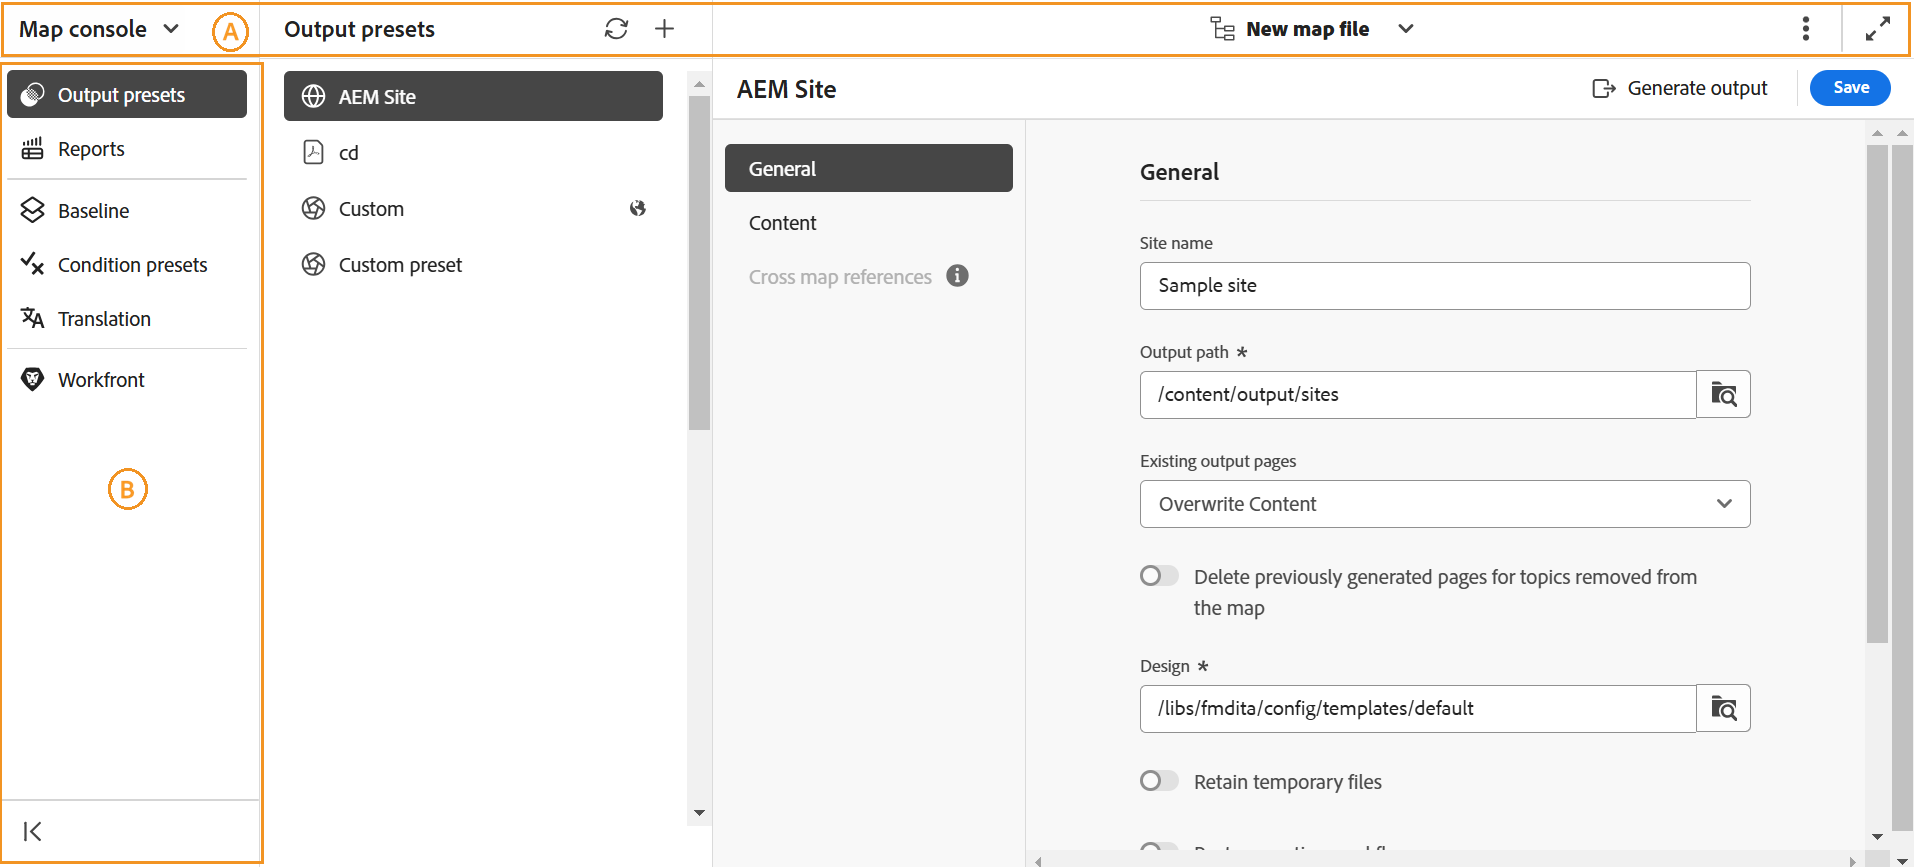
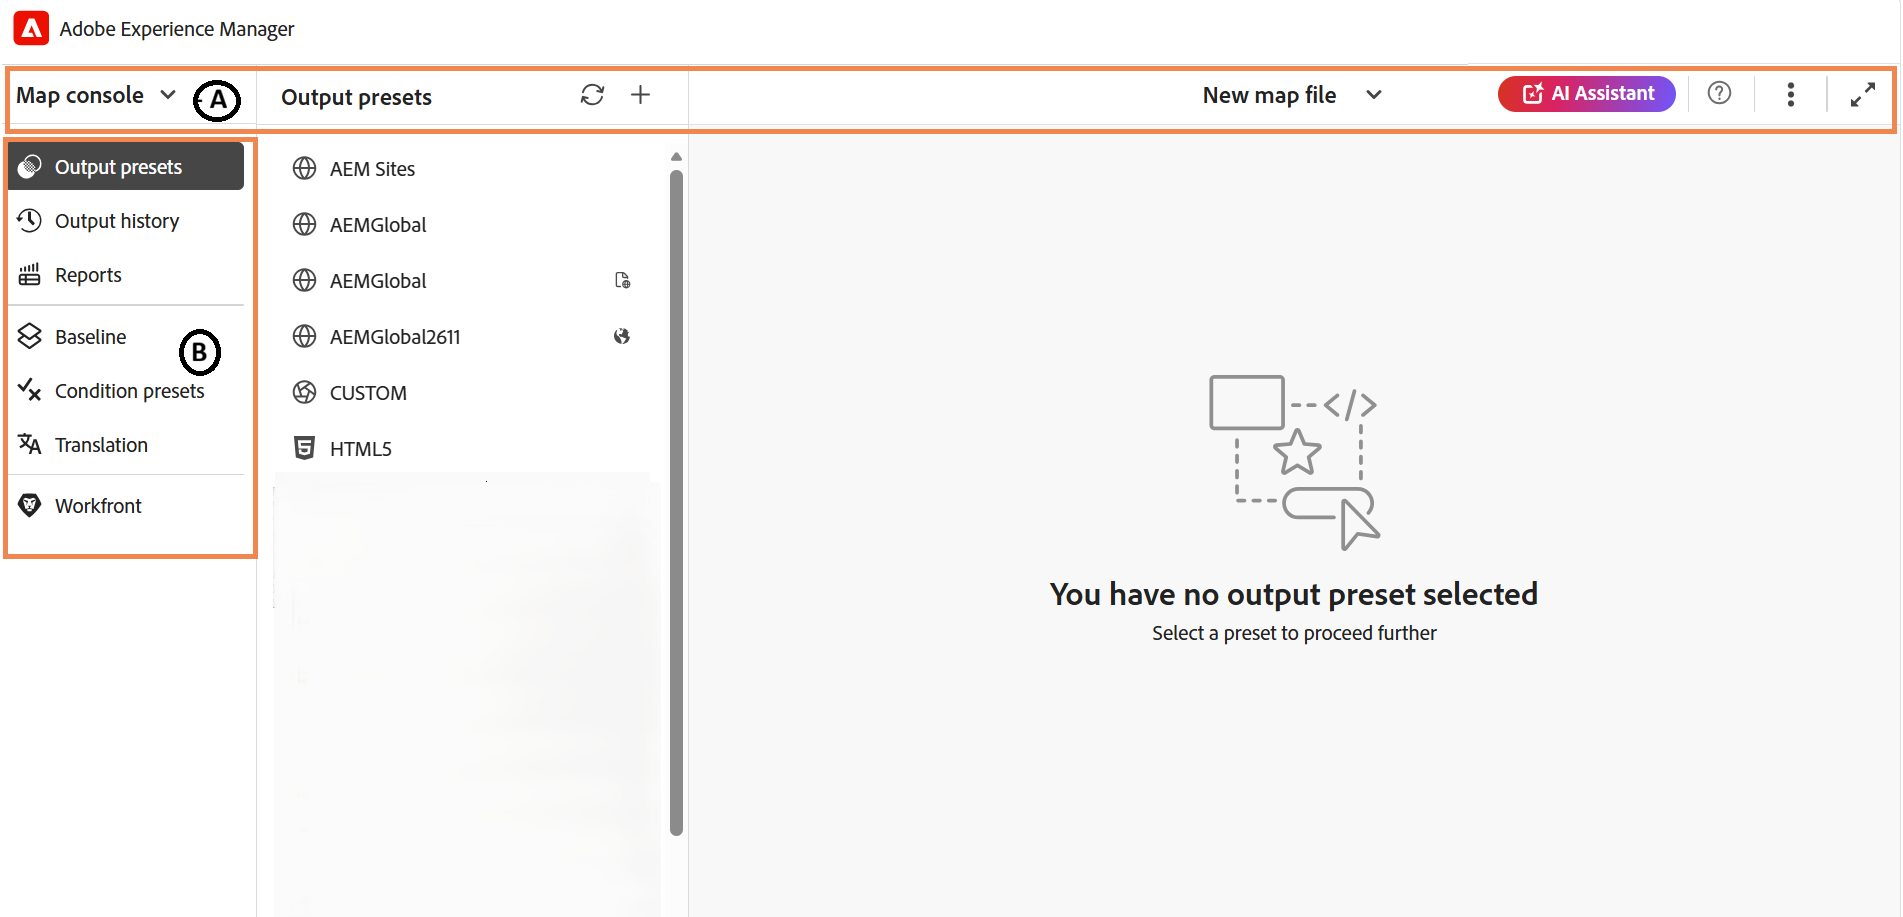
updated output history related docs

diff --git a/help/product-guide/user-guide/generate-output-manage-process.md b/help/product-guide/user-guide/generate-output-manage-process.md
@@ -29,13 +29,70 @@ topic_v2:
 ---
 # Manage output generation process
 
-Adobe Experience Manager Guides allows you to perform the following actions on the generated output:
+Adobe Experience Manager Guides allows you to monitor and manage output generation tasks for your DITA maps. You can view the status of output generation tasks, cancel ongoing tasks, and remove outdated entries from the output generation history.
+
+Once you initiate an output generation task for a map or regenerate selected topics, Experience Manager Guides sends the task to the output generation queue. The status of the task is updated as the output generation process progresses. 
+
+You can view and manage output generation tasks using the **Output history** tab in the Editor or the **OUTPUTS** tab in the Assets UI.
+
+
+## View and manage output generation tasks from the Editor
+
+>[!NOTE]
+>
+> The **Output history** feature in the Editor is available starting with the 2026.11.0 release of Experience Manager Guides as Cloud Service. This feature is disabled by default. To enable it, contact the Adobe Customer Success team.
+
+You can view and manage output generation tasks directly from the **Output history** tab in the Map console.
+
+Open the DITA map in the Map console and generate the output using any of the output presets available in Experience Manager Guides. Switch to the **Output history** tab to view the status of the output generation task and other details, as shown below:
+
+![](images/output-history-editor-view.png)
+
+For each output generation task, you can view the following information:
+
+1. **Preset:** Name of the output preset used to generate the output.
+1. **Preset type:** Output preset type used for output generation.
+1. **Status:** Current status of the output generation task, such as Waiting, Executing, Finished, Failed, Post-publishing, or Cancelled.
+1. **Generated on:** Date and time when the output was generated.
+1. **Duration:** Time taken to generate the output.
+1. **Generated by:** Name of the user who initiated the output generation task.
+
+>[!NOTE]
+>
+> If an output generation task is currently in progress, the **Executing** label in the **Status** column indicates that the task is being processed. Use the **Refresh** to view the latest status of the output generation tasks.
+
+You can also cancel an ongoing output generation task. To cancel an ongoing task, hover over the task row and select **Cancel generation**. 
+
+![](images/cancel-generation-editor.png)
+
+Once the task is cancelled, the **Cancelled** label is displayed in the **Status** column.
+
+For completed output generation tasks, hover over the task row to access the following actions, depending on the task status:
+
+![](images/output-history-editor-actions.png)
+
+- **Open output:** View the generated ouput in a new tab. 
+- **View logs:** Access the output generation logs to review the publishing details and troubleshoot errors or warnings.
+- **Delete output history:** Remove the selected task from the output generation history without deleting the generated output.
+
+You can also use the following options to work with the output generation history:
+
+- **Search:** Use the search field to find specific output generation tasks in the history.
+- **Download CSV:** Select **Download CSV** to download the output generation history in CSV format.
+- **Resize column:** Select the dropdown next to a column name and select **Resize column** to adjust the column width.
+- **Filter**: Apply filters based on the output preset type, task status, and date and time range to narrow down the output generation history.
+
+  ![](./images/output-history-filters.png)
+
+## View and manage output generation tasks from the Assets UI
+
+Using Assets AI, you can perform the following actions on the generated output:
 
 - [View the status of the output generation task](#view-the-status-of-the-output-generation-task) 
 - [Cancel an output generation task](#cancel-an-output-generation-task)
 - [Delete an output task](#delete-an-output-task)
 
-## View the status of the output generation task 
+### View the status of the output generation task 
 
 Once you initiate the output generation task for a map or regenerate selected topics, Experience Manager Guides sends this task to the output generation queue. This queue is updated in real time, showing the status of each output generation task in the queue.
 
@@ -59,14 +116,14 @@ Once you initiate the output generation task for a map or regenerate selected to
 
         In this list, you could have tasks that have executed successfully, tasks that have executed with message, or failed tasks. The successful tasks are shown with green color icon, the tasks with a message have an orange color icon, and the failed tasks are shown with red color icon.
 
-        For all the tasks, the publishing process creates a log file \(logs.txt\) that can be accessed by selecting the link in the Generated At column. For tasks that have failed or have messages, you can check the log file, which is explained in the section [View and check the log file](generate-output-basic-troubleshooting.md#id1822G0P0CHS).
+        For all the tasks, the publishing process creates a log file \(logs.txt\) that can be accessed by selecting the link in the **Generated At** column. For tasks that have failed or have messages, you can check the log file, which is explained in the section [View and check the log file](generate-output-basic-troubleshooting.md#id1822G0P0CHS).
 
         >[!NOTE]
         >
         > When you select the link of the generated PDF output, you are asked to download the PDF. 
 
 
-## Cancel an output generation task 
+### Cancel an output generation task 
 
 Experience Manager Guides gives publishers a simple and easy way to cancel any ongoing publishing task. As a publisher, you can cancel an ongoing publishing task from the DITA map console or the [Publish Dashboard](generate-output-publish-dashboard.md#).
 
@@ -93,7 +150,7 @@ Perform the following steps to cancel an output generation task from the DITA ma
     ![](images/cancelled-output-task.png)
 
 
-## Delete an output task 
+### Delete an output task 
 
 When you generate multiple outputs for a DITA map, over a period of time the Generated Outputs list for such a map becomes very long. As a publisher you can clean the output history of any map file by removing the outdated tasks from the *Generated Outputs* list. Note that the output is not removed from the system, only the entry of the generated output is removed from the *Generated Outputs* list.
 
@@ -112,3 +169,20 @@ Perform the following steps to remove an output task from the Generated Output l
 1.  Select **Yes** on the **Confirm Delete** message prompt.
 
     The task is deleted from the Generated Outputs list.
+
+
+
+
+
+
+
+    
+
+
+
+
+
+
+
+
+

diff --git a/help/product-guide/user-guide/map-console-overview.md b/help/product-guide/user-guide/map-console-overview.md
@@ -59,7 +59,7 @@ The Map console interface is primarily divided into two sections - **Navigation 
     >
     > If using the Adobe Experience Manager Guides as a Cloud Service, an additional feature [AI Assistant](./ai-assistant.md) is displayed in the navigation bar. 
 
-- (**B**) **Left panel**: The left panel gives you quick access to Output generation, Report creation and management, Baseline, Condition presets, Content translation, and Workfront (only if configured) features. 
+- (**B**) **Left panel**: The left panel gives you quick access to Output generation, Output history, Report creation and management, Baseline, Condition presets, Content translation, and Workfront (only if configured) features. 
 
     For more details, refer to the [Map console features](#map-console-features) section below.
 
@@ -72,6 +72,18 @@ The following features are available in the Left panel when you [open a DITA map
 With Map console, you can efficiently generate outputs in various formats, including AEM Sites, PDF, HTML5, EPUB, JSON, and custom output through DITA-OT, Native PDF publishing, and FMPS. You can generate output for an entire DITA map or you can selectively publish only a few topics that you have updated. You can also use the Baseline publishing feature to selectively publish a specific version of your DITA map or topic.
 
 For more details, view [Output generation](./generate-output.md).
+
+**Output history**
+
+>[!NOTE]
+>
+> The **Output history** feature in the Editor is available starting with the 2026.11.0 release of Experience Manager Guides as Cloud Service. This feature is disabled by default. To enable it, contact the Adobe Customer Success team.
+
+Allows you to view and manage output generation tasks for the selected DITA map directly from the Editor. You can monitor the status of ongoing and completed tasks, view output generation details, access publishing logs, and manage the output generation history.
+
+You can also search and filter output generation tasks based on preset type, task status, and date and time range, and download the output generation history in CSV format.
+
+For more details, view [Manage output generation process](./generate-output-manage-process.md#view-and-manage-output-generation-tasks-from-the-editor).
 
 **Report creation and management**
 
